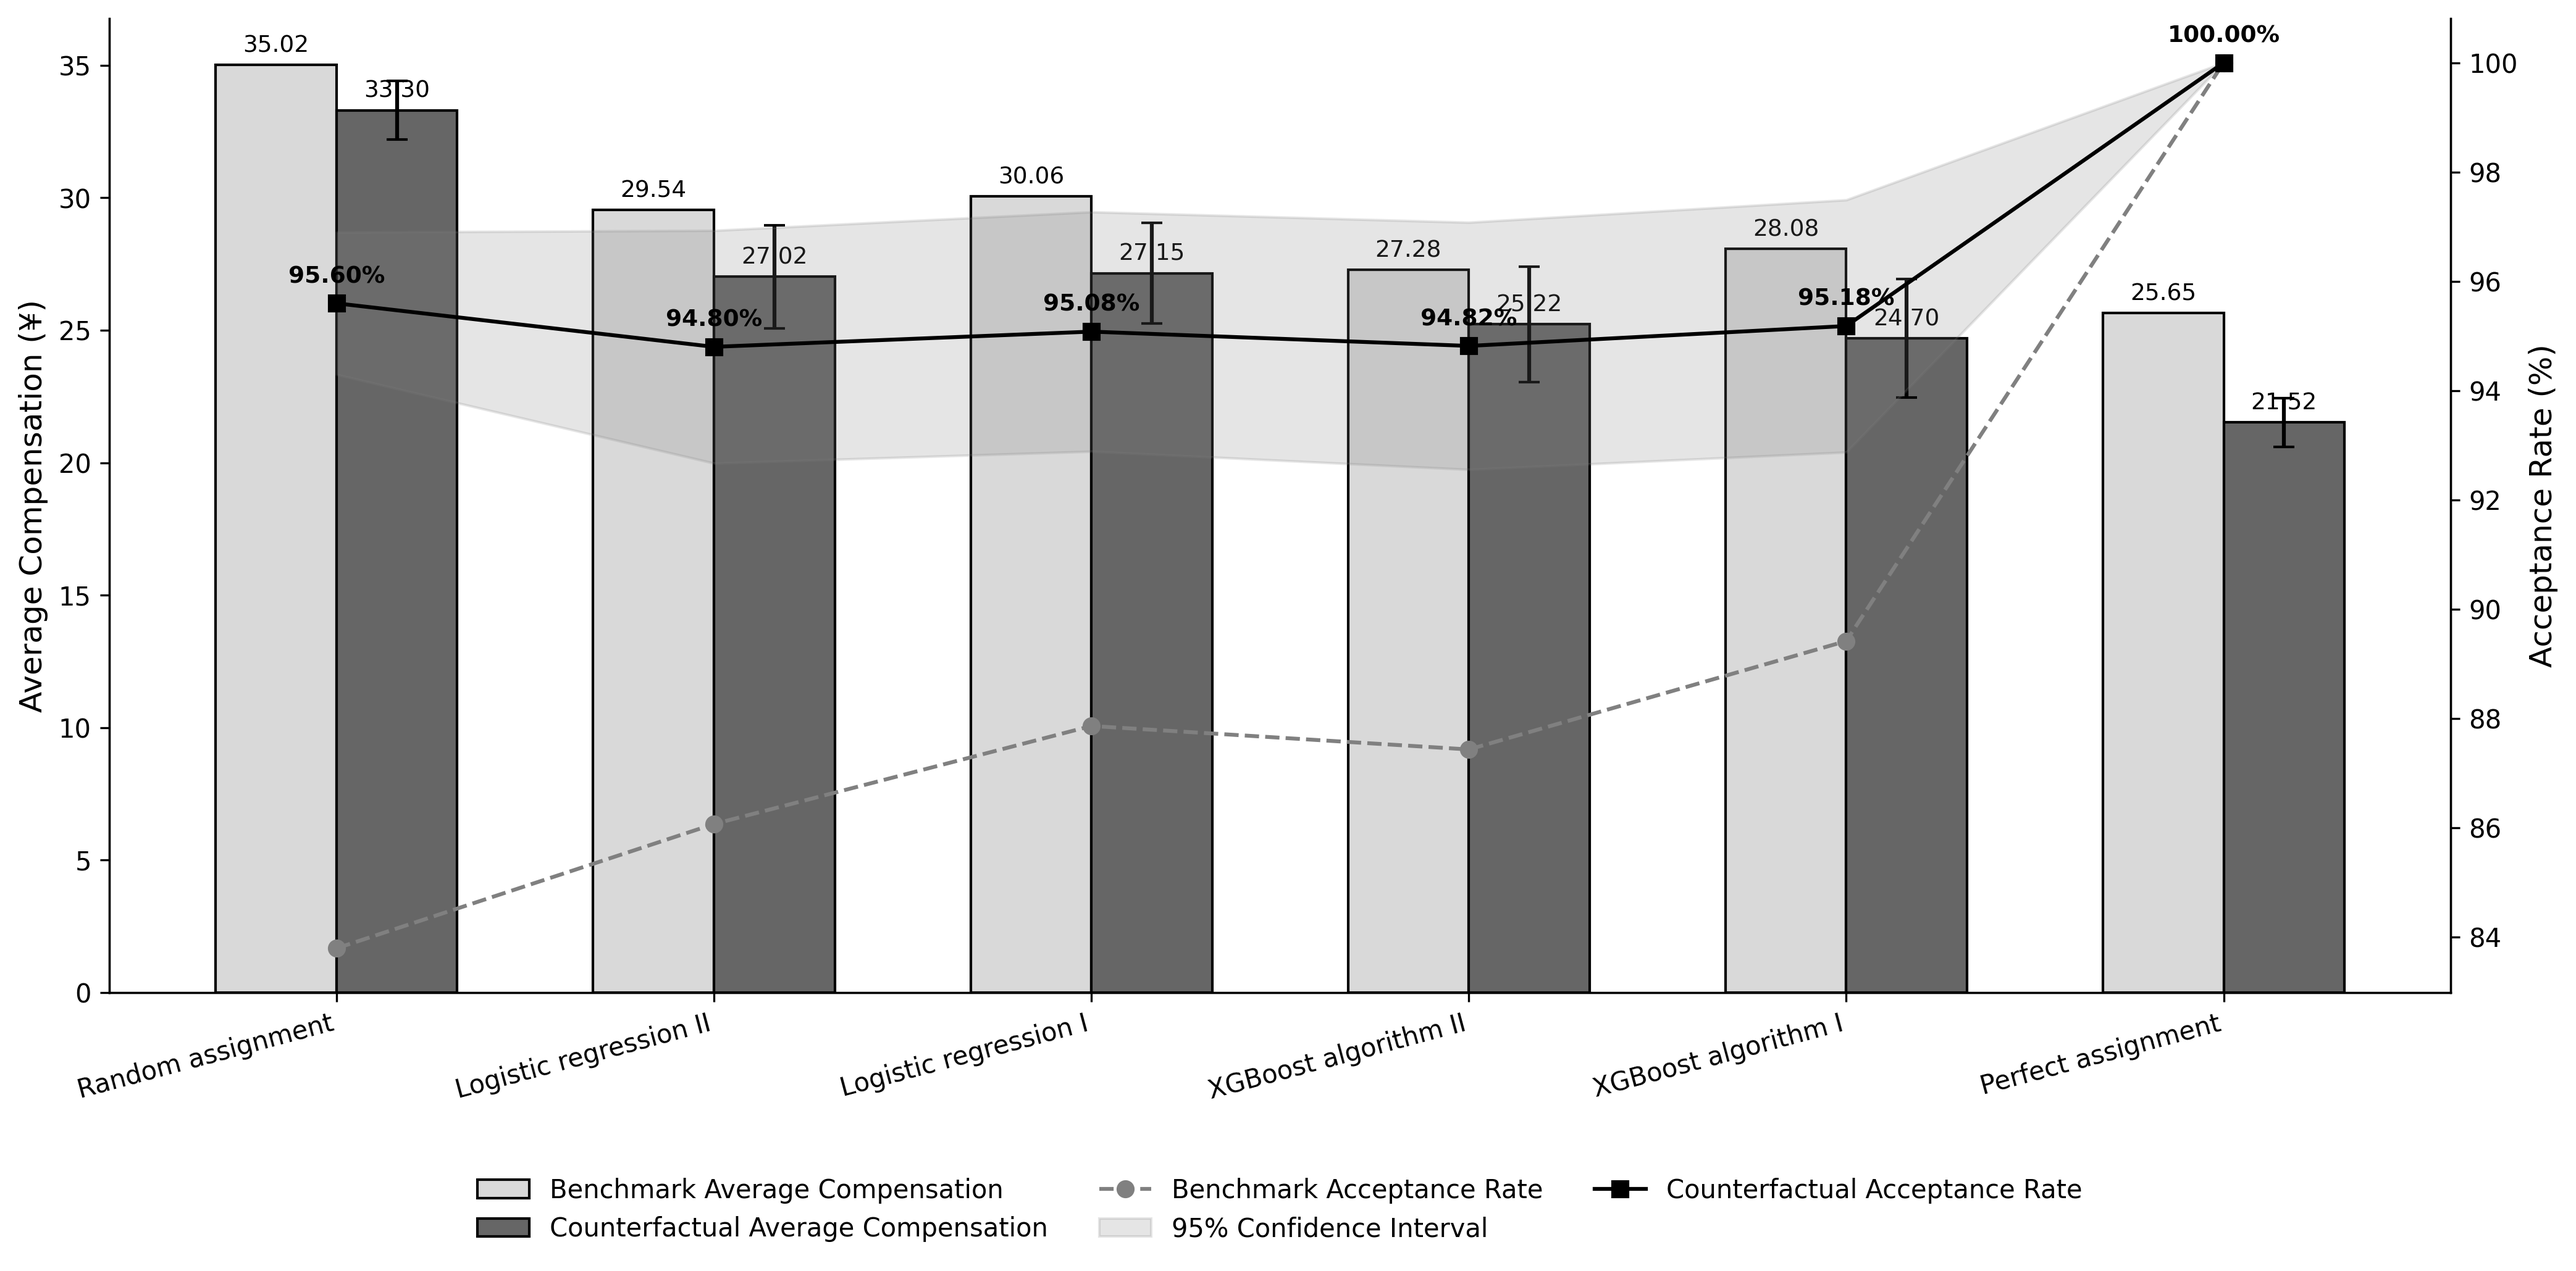
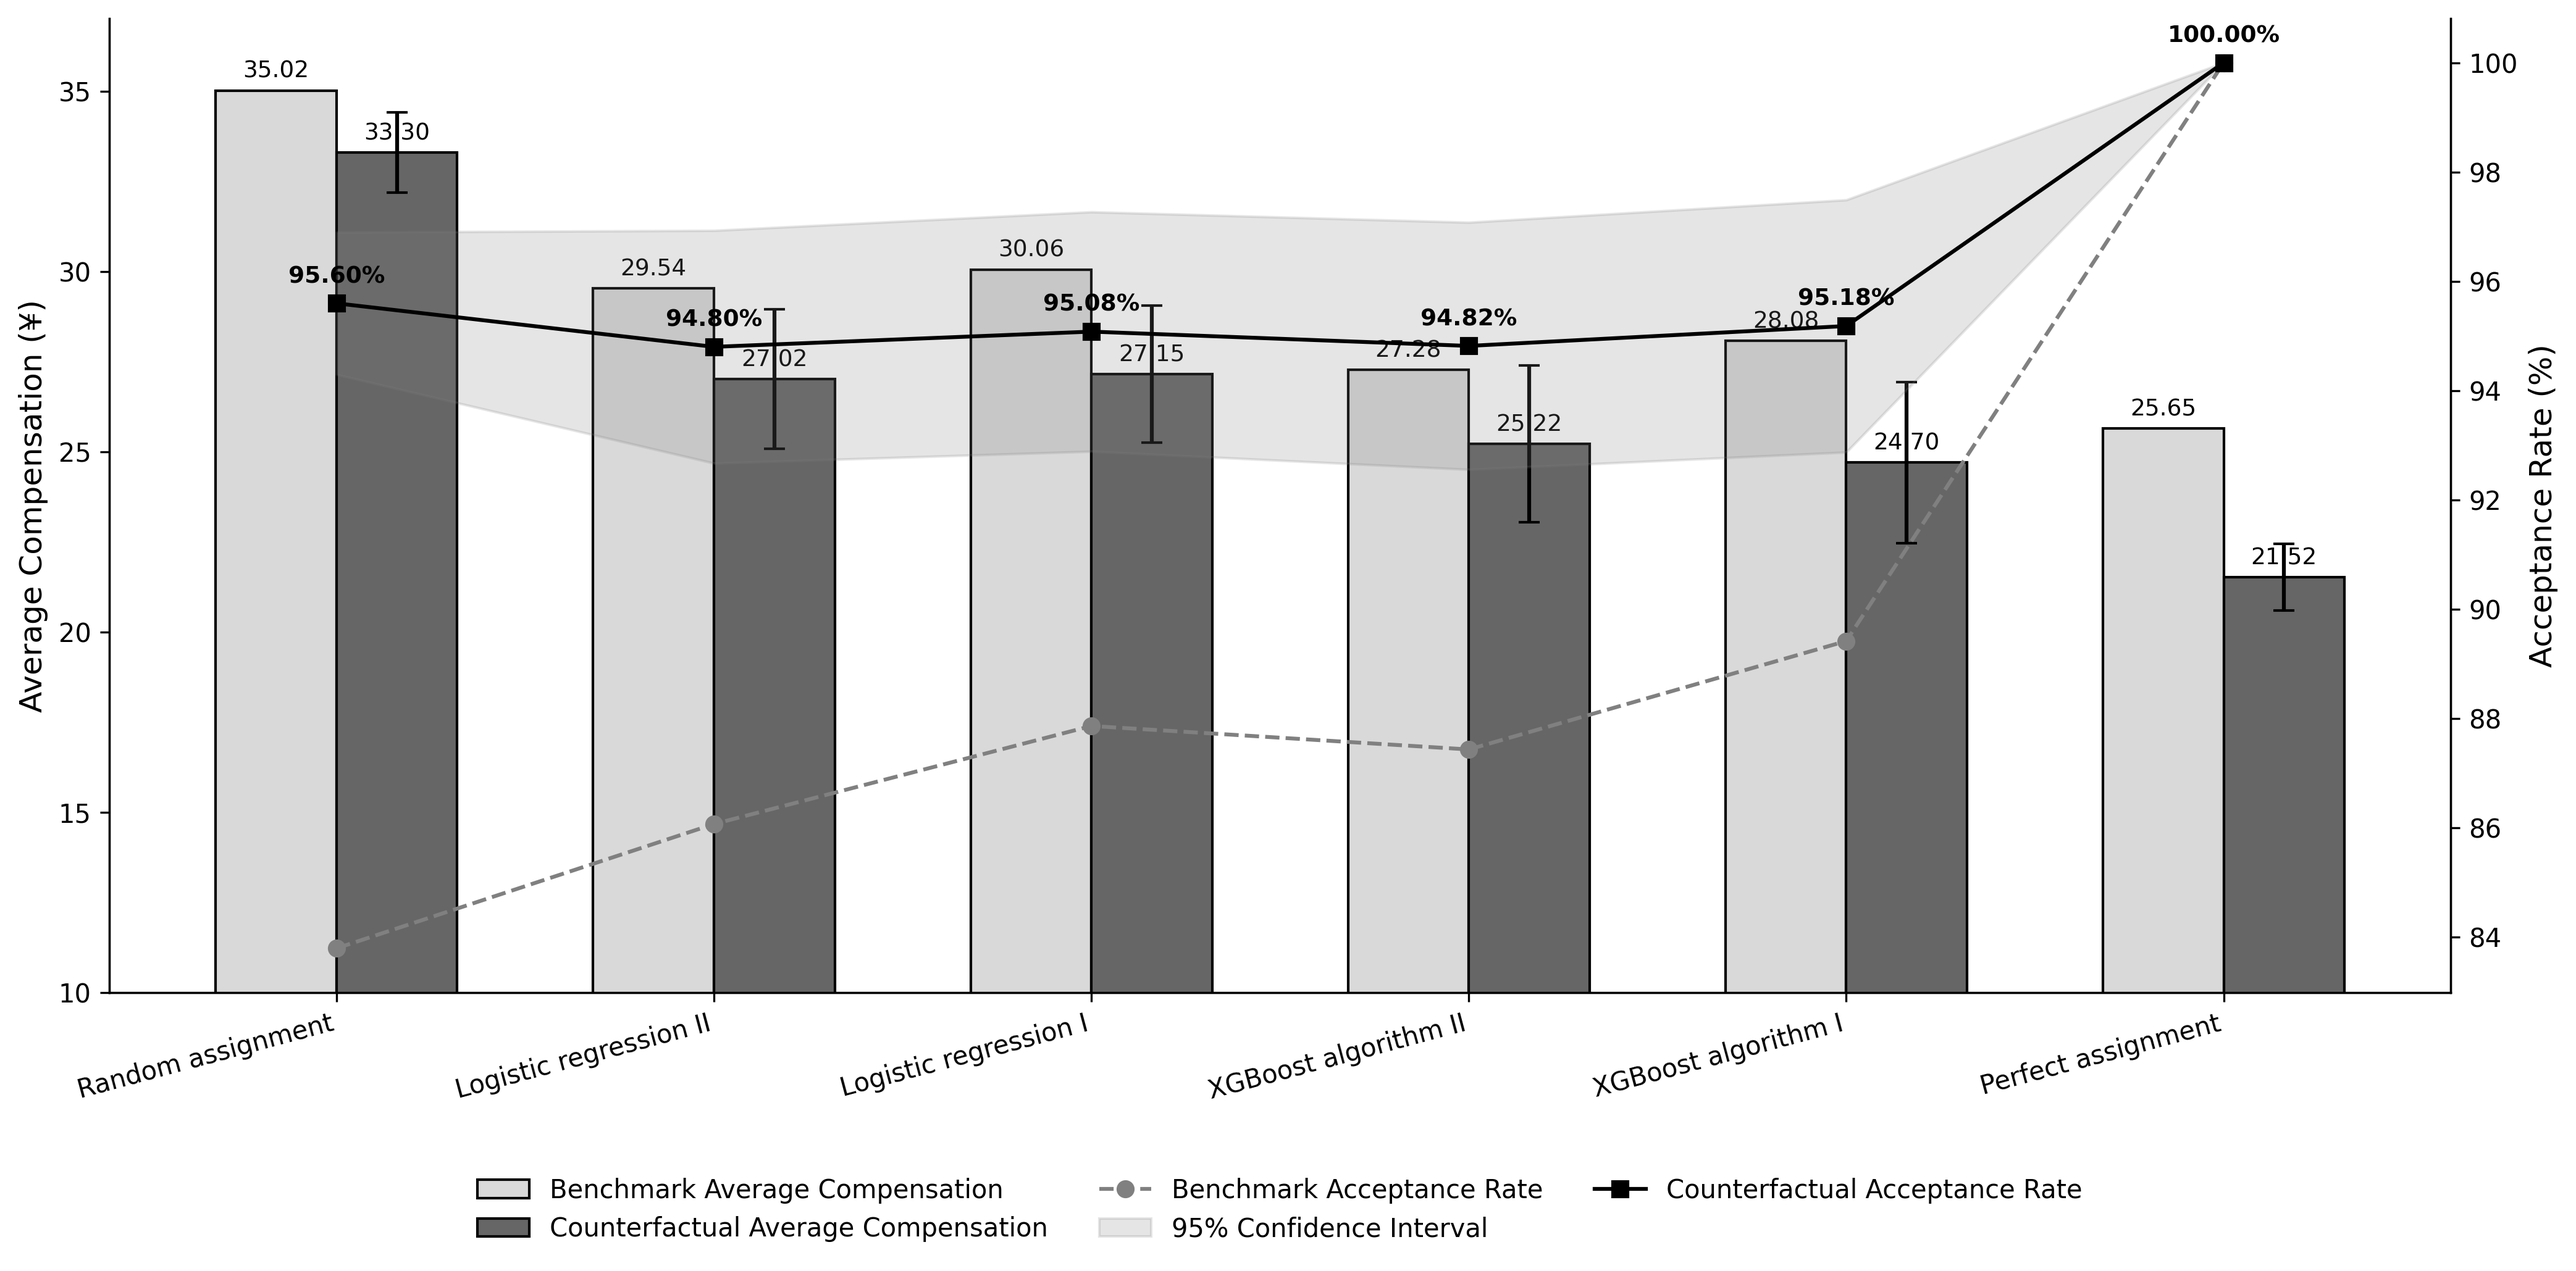
checkpoint: 左轴改为从10开始，补存Figure7 sim_summary CSV

diff --git a/redraw_figure_g7.py b/redraw_figure_g7.py
@@ -1,0 +1,69 @@
+"""Regenerate Figure G.7 from saved CSV data with left y-axis starting at 10."""
+import sys
+from pathlib import Path
+import numpy as np
+import pandas as pd
+import matplotlib.pyplot as plt
+
+root = Path(__file__).resolve().parent
+w_sim_dir    = root / "results" / "empirical4.5_weighted"
+w_output_dir = root / "results" / "empirical4.1_4.4_weighted"
+
+w_sim_summary = pd.read_csv(w_sim_dir / "Figure_G.7_knowledge_growth_summary.csv", index_col=0)
+w_df_plot     = pd.read_csv(w_output_dir / "Figure_G.4_assignment_outcomes_data.csv", index_col=0)
+
+w_sim_order = [
+    ("random_sm",    "Random assignment"),
+    ("eco_all_sm",   "Logistic regression II"),
+    ("eco_demos_sm", "Logistic regression I"),
+    ("xgb_all_sm",   "XGBoost algorithm II"),
+    ("xgb_demos_sm", "XGBoost algorithm I"),
+    ("ideal_sm",     "Perfect assignment"),
+]
+w_sim_labels  = [lb for _, lb in w_sim_order]
+w_bl_cost     = w_df_plot.loc[w_sim_labels, "Cost"].values
+w_bl_rate     = w_df_plot.loc[w_sim_labels, "Rate"].values
+w_cf_cost     = np.array([w_sim_summary.loc[k, "Cost_Mean"]  for k, _ in w_sim_order])
+w_cf_cost_err = np.array([2 * w_sim_summary.loc[k, "Cost_SD"] for k, _ in w_sim_order])
+w_cf_rate     = np.array([w_sim_summary.loc[k, "Rate_Mean"]  for k, _ in w_sim_order])
+w_cf_rate_low = np.array([w_sim_summary.loc[k, "Rate_Low"]   for k, _ in w_sim_order])
+w_cf_rate_hi  = np.array([w_sim_summary.loc[k, "Rate_High"]  for k, _ in w_sim_order])
+
+fig, ax1 = plt.subplots(figsize=(14, 7), dpi=120)
+ax2 = ax1.twinx()
+xp = np.arange(len(w_sim_labels))
+wd = 0.32
+
+ax1.bar(xp - wd / 2, w_bl_cost, wd, color="#d9d9d9", edgecolor="black", label="Benchmark Average Compensation")
+ax1.bar(xp + wd / 2, w_cf_cost, wd, color="#666666", edgecolor="black",
+        yerr=w_cf_cost_err, capsize=4, label="Counterfactual Average Compensation")
+ax2.plot(xp, w_bl_rate,  color="gray",  linestyle="--", marker="o", label="Benchmark Acceptance Rate")
+ax2.fill_between(xp, w_cf_rate_low, w_cf_rate_hi, color="gray", alpha=0.2, label="95% Confidence Interval")
+ax2.plot(xp, w_cf_rate, color="black", linestyle="-",  marker="s", label="Counterfactual Acceptance Rate")
+
+for idx, val in enumerate(w_bl_cost):
+    ax1.annotate(f"{val:.2f}", xy=(idx - wd / 2, val), xytext=(0, 5),
+                 textcoords="offset points", ha="center", fontsize=9)
+for idx, val in enumerate(w_cf_cost):
+    ax1.annotate(f"{val:.2f}", xy=(idx + wd / 2, val), xytext=(0, 5),
+                 textcoords="offset points", ha="center", fontsize=9)
+for idx, val in enumerate(w_cf_rate):
+    ax2.annotate(f"{val:.2f}%", xy=(idx, val), xytext=(0, 8),
+                 textcoords="offset points", ha="center", fontsize=9, weight="bold")
+
+ax1.set_ylim(10, max(w_bl_cost.max(), w_cf_cost.max()) + 2)
+ax1.set_ylabel("Average Compensation (¥)", fontsize=12)
+ax2.set_ylabel("Acceptance Rate (%)", fontsize=12)
+ax1.set_xticks(xp)
+ax1.set_xticklabels(w_sim_labels, rotation=15, ha="right")
+ax1.spines["top"].set_visible(False)
+ax2.spines["top"].set_visible(False)
+h1, l1 = ax1.get_legend_handles_labels()
+h2, l2 = ax2.get_legend_handles_labels()
+ax1.legend(h1 + h2, l1 + l2, loc="lower center", bbox_to_anchor=(0.5, -0.28), ncol=3, frameon=False)
+fig.tight_layout()
+
+out = w_sim_dir / "Figure_G.7_knowledge_growth.png"
+fig.savefig(out, bbox_inches="tight", dpi=300)
+plt.close(fig)
+print(f"Saved: {out}")

diff --git a/python/empirical_4_1_4_5/workflow.py b/python/empirical_4_1_4_5/workflow.py
@@ -880,6 +880,7 @@ def _run(args, root: Path) -> None:
             ax1.annotate(f"{val:.2f}", xy=(idx + wd / 2, val), xytext=(0, 5), textcoords="offset points", ha="center", fontsize=9)
         for idx, val in enumerate(w_cf_rate):
             ax2.annotate(f"{val:.2f}%", xy=(idx, val), xytext=(0, 8), textcoords="offset points", ha="center", fontsize=9, weight="bold")
+        ax1.set_ylim(10, max(w_bl_cost.max(), w_cf_cost.max()) + 2)
         ax1.set_ylabel("Average Compensation (¥)", fontsize=12)
         ax2.set_ylabel("Acceptance Rate (%)", fontsize=12)
         ax1.set_xticks(xp); ax1.set_xticklabels(w_sim_labels, rotation=15, ha="right")
@@ -952,6 +953,7 @@ def _run(args, root: Path) -> None:
     print()
     print(f"  Simulation done ({_fmt(time.perf_counter() - _t7)})")
     sim_summary = summarize_simulation_results(simulate_results)
+    sim_summary.to_csv(sim_dir / "Figure_7_knowledge_growth_summary.csv", encoding="utf-8-sig")
 
     sim_order = [
         ("random_sm", "Random assignment"),
@@ -1026,6 +1028,7 @@ def _run(args, root: Path) -> None:
         ax2.annotate(f"{val:.2f}%", xy=(idx, val), xytext=(0, 8),
                      textcoords="offset points", ha="center", fontsize=9, weight="bold")
 
+    ax1.set_ylim(10, max(baseline_cost.max(), cf_cost.max()) + 2)
     ax1.set_ylabel("Average Compensation (¥)", fontsize=12)
     ax2.set_ylabel("Acceptance Rate (%)", fontsize=12)
     ax1.set_xticks(x_pos)
